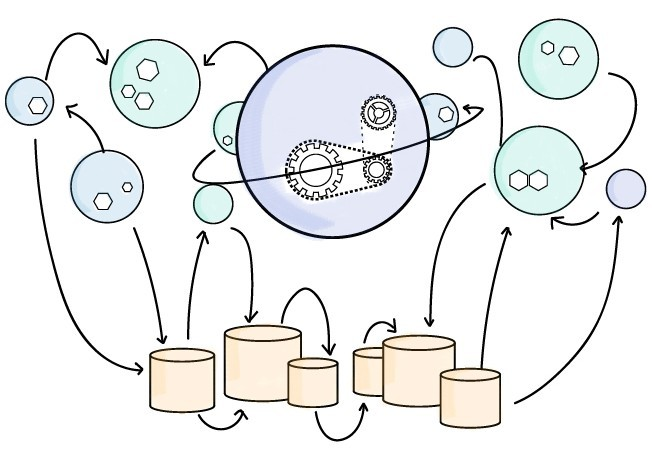
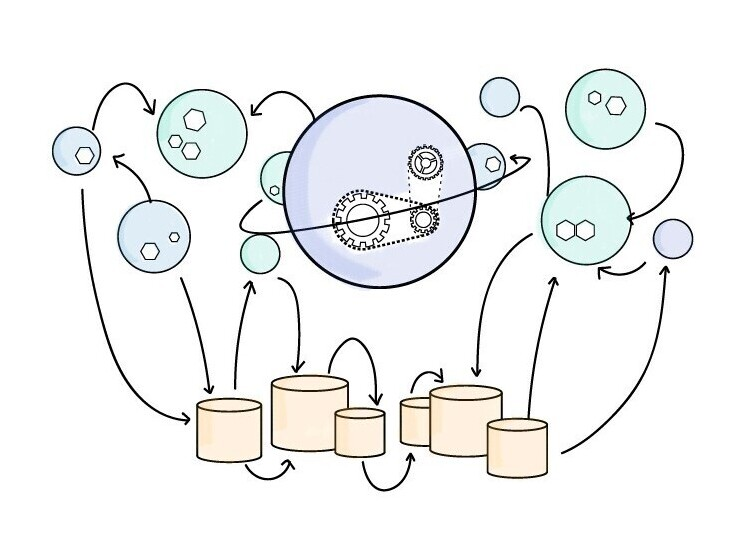
update image

diff --git a/kube.html b/kube.html
@@ -56,11 +56,11 @@
         <h1>Microservices Observatory</h1>
         <div class="media">
           <div class="media-left media-top">
-            <img class="media-object" src="imgs/microservices.jpg" style="border-radius: 10%;" alt="LegoSDN logo." width="320" height="300">
+            <img class="media-object" src="imgs/microservices.jpg" style="border-radius: 50%;" alt="LegoSDN logo." width="320" height="310">
           </div>
           <div class="media-body">
-            <p>Microservices Observatory is a collection of projects meant to disentangle and illuminate the complexity of effectively managing high-performance and available cloud-native applications.  Currently, our focus revolves around several distinct thrusts: 
-				<ul>
+            <p align="justify">Microservices Observatory is a collection of projects meant to disentangle and illuminate the complexity of effectively managing high-performance and available cloud-native applications.  Currently, our focus revolves around several distinct thrusts: 
+				<ul align="justify">
 					<li> <b>Kubernetes Operators:</b> These encapsulate administrator knowledge about managing the life-cycle of a microservices. Our focus is to understand and quantify the availability and security implications of automation provided by ``operators''. Motivated by our observations, we are developing tools to safeguard and protect production networks from emerging issues.
 					<li> <b>Digitial Clone for AIOps (KubeKlone):</b> A recent trend involves employing machine learning techniques to automate configuration-related Operational tasks (often referred to as AIOPs). Often such automation is geared towards discovering configuration choices that minimize cost, increase revenue, or improve performance. Today, AIOPs techniques are costly and time-consuming because the ML techniques require significant amounts of data, which is challenging to collect at scale. We are developing a digital twin of cloud-based cloud-native infrastructure. We plan to explore the feasibility of design AIOps for emerging cloud-native infrastructure deployments, e.g., 5G and edge computing.
 						<li> <b>eBPF Observability:</b> Our goal is to track and attribute requests and eBPF programs.
@@ -80,21 +80,21 @@
             <embed class="img" src="imgs/controller.png" alt="KubeKlone." width="100%">
           </div>
           <h2>KubeKlone</h2>
-          <p>A digital clone of a microservices infrastructure provides integration of several learning-based AIOPs (specifically those based on Bayesian optimization and Reinforcement ).</p>
+          <p align="justify">A digital clone of a microservices infrastructure provides integration of several learning-based AIOPs (specifically those based on Bayesian optimization and Reinforcement ).</p>
         </div><!-- /.col-md-4 -->
         <div class="col-md-4">
           <div class="thumbnail">
             <img class="img" src="imgs/survey.png" alt="Survey results." width="100%">
           </div>
           <h2>Comprehensive analysis Kubernete Operator </h2>
-          <p>A first look at open issues of over 40 operators from one of the most prominent operator frameworks (<a href="https://operatorhub.io/">Operator Hub</a>). </p>
+          <p align="justify">A first look at open issues of over 40 operators from one of the most prominent operator frameworks (<a href="https://operatorhub.io/">Operator Hub</a>). </p>
         </div><!-- /.col-md-4 -->
         <div class="col-md-4">
           <div class="thumbnail">
             <img class="img" src="imgs/suture.png" alt="Suture Framework" width="65%">
           </div>
           <h2>Suture</h2>
-          <p>A framework that turbo-charges existing Kubernetes operators to support virtualization, finer-grained security, and defense capabilities.</p>
+          <p align="justify">A framework that turbo-charges existing Kubernetes operators to support virtualization, finer-grained security, and defense capabilities.</p>
         </div><!-- /.col-md-4 -->
       </div><!-- /.row -->
 
@@ -105,7 +105,7 @@
         <div class="row">
           <div class="col-md-7">
             <h2 class="featurette-heading"><!-- Talk  --><span class="text-muted">@CoNEXT '20 Student workshop</span></h2>
-            <p class="lead">We presented our vision for Suture at the ACM <a href="https://conferences2.sigcomm.org/co-next/2020/#!/workshop-student">Conference on emerging Networking EXperiments and Technologies (CoNEXT)</a> virtual event on December &amp; 15, 2020.</p>
+            <p class="lead" align="justify">We presented our vision for Suture at the ACM <a href="https://conferences2.sigcomm.org/co-next/2020/#!/workshop-student">Conference on emerging Networking EXperiments and Technologies (CoNEXT)</a> virtual event on December &amp; 15, 2020.</p>
           </div>
         <!--  <div class="col-md-5">
             <script async class="speakerdeck-embed" data-id="106ae2fd11b24c94862a7129d6a43b39" data-ratio="1.33333333333333" src="//speakerdeck.com/assets/embed.js"></script>
@@ -121,7 +121,7 @@
         <h1>Source Code</h1>
         <div class="col-lg-6">
           <!-- <h2 class="featurette-heading">LegoSDN Source Code</h2> -->
-          <p class="lead">Coming soon</p>
+          <p align="justify" class="lead">Coming soon .... </p>
         </div>
         <div>
 

diff --git a/css/fluid.css b/css/fluid.css
@@ -3,6 +3,7 @@
 .row-centered {
     text-align:center;
 }
+
 .col-centered {
     display:inline-block;
     float:none;
